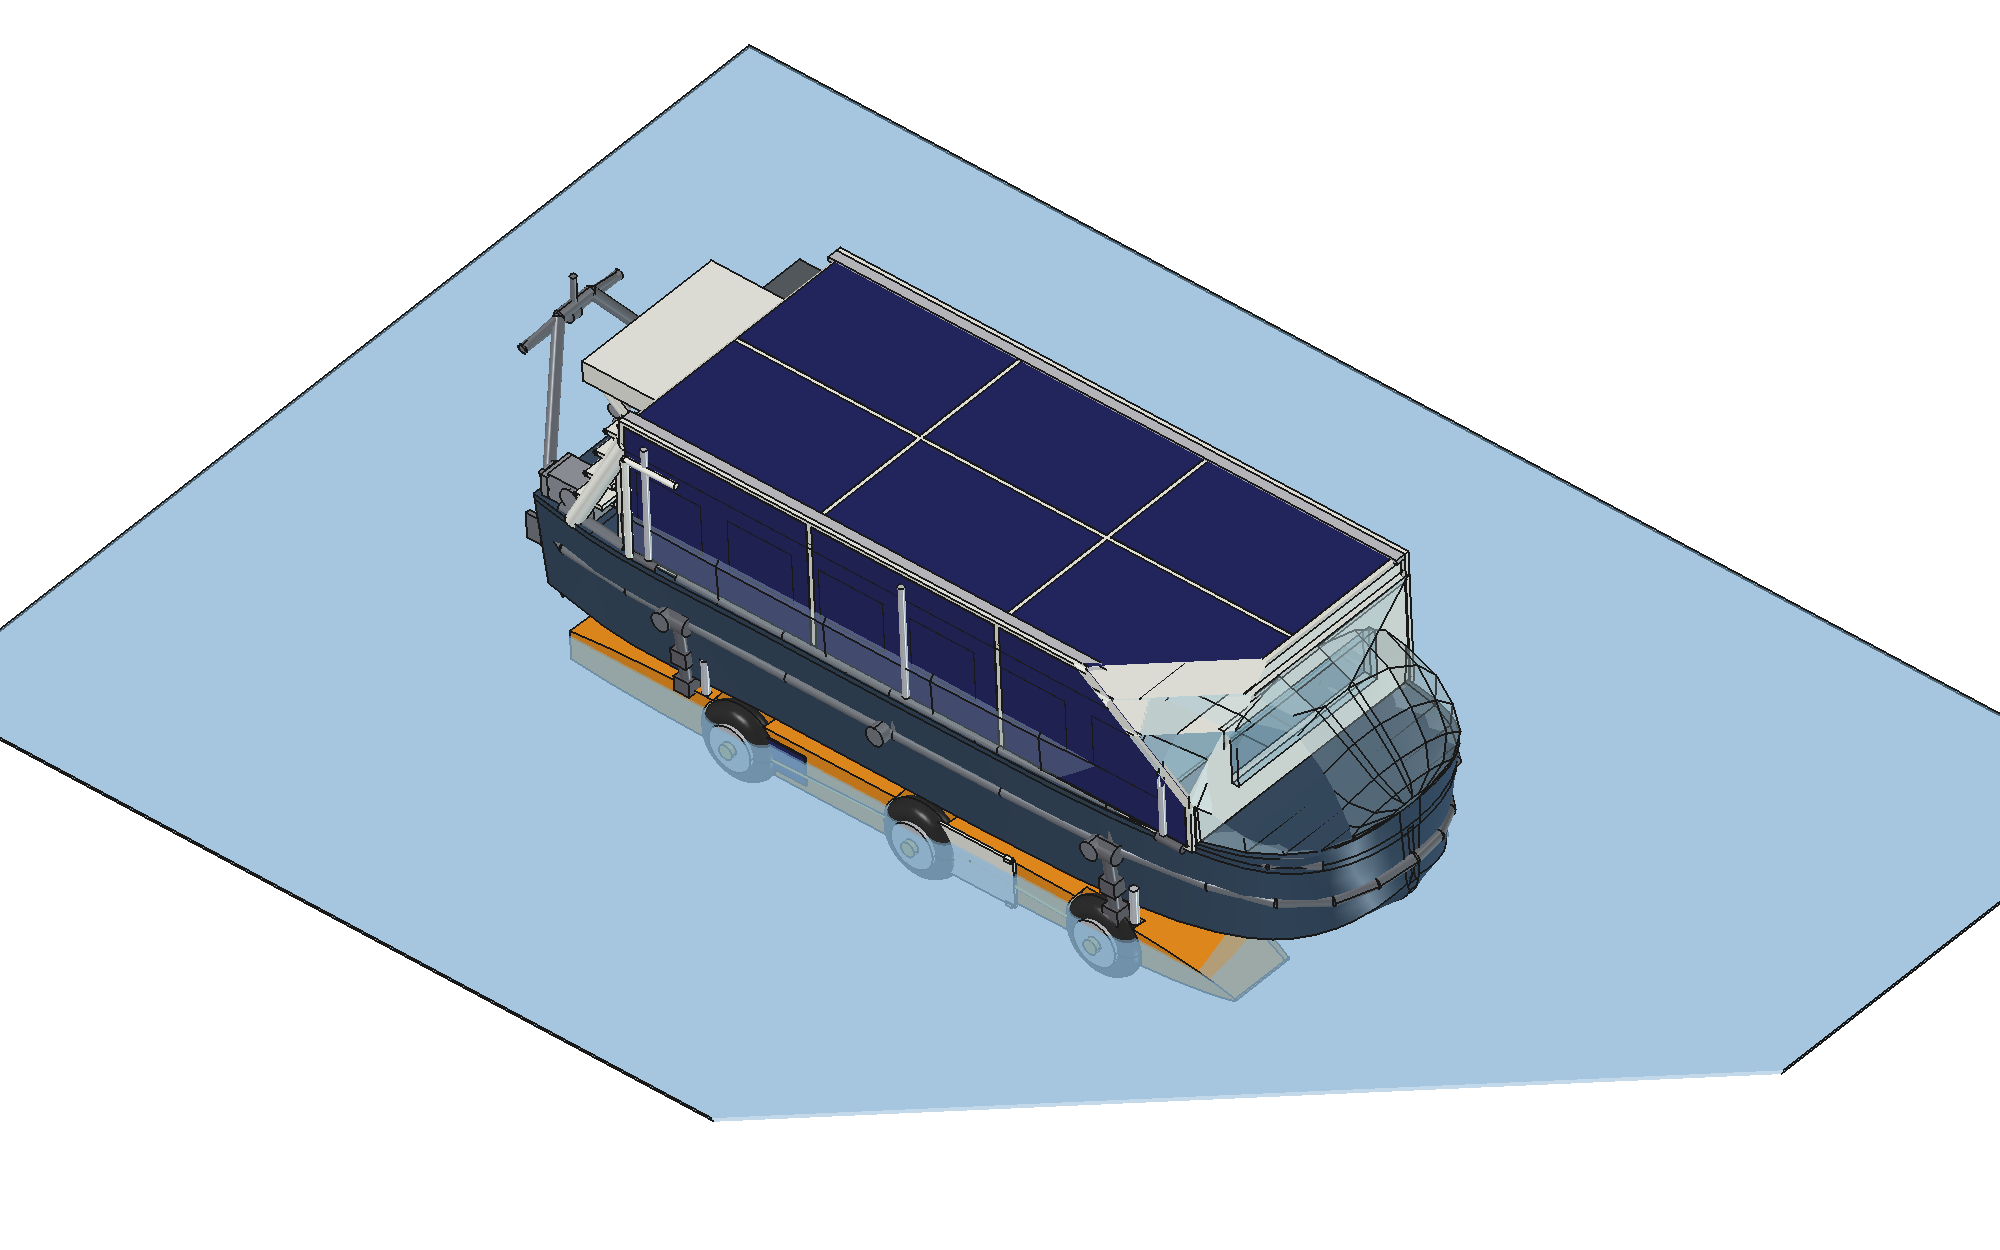
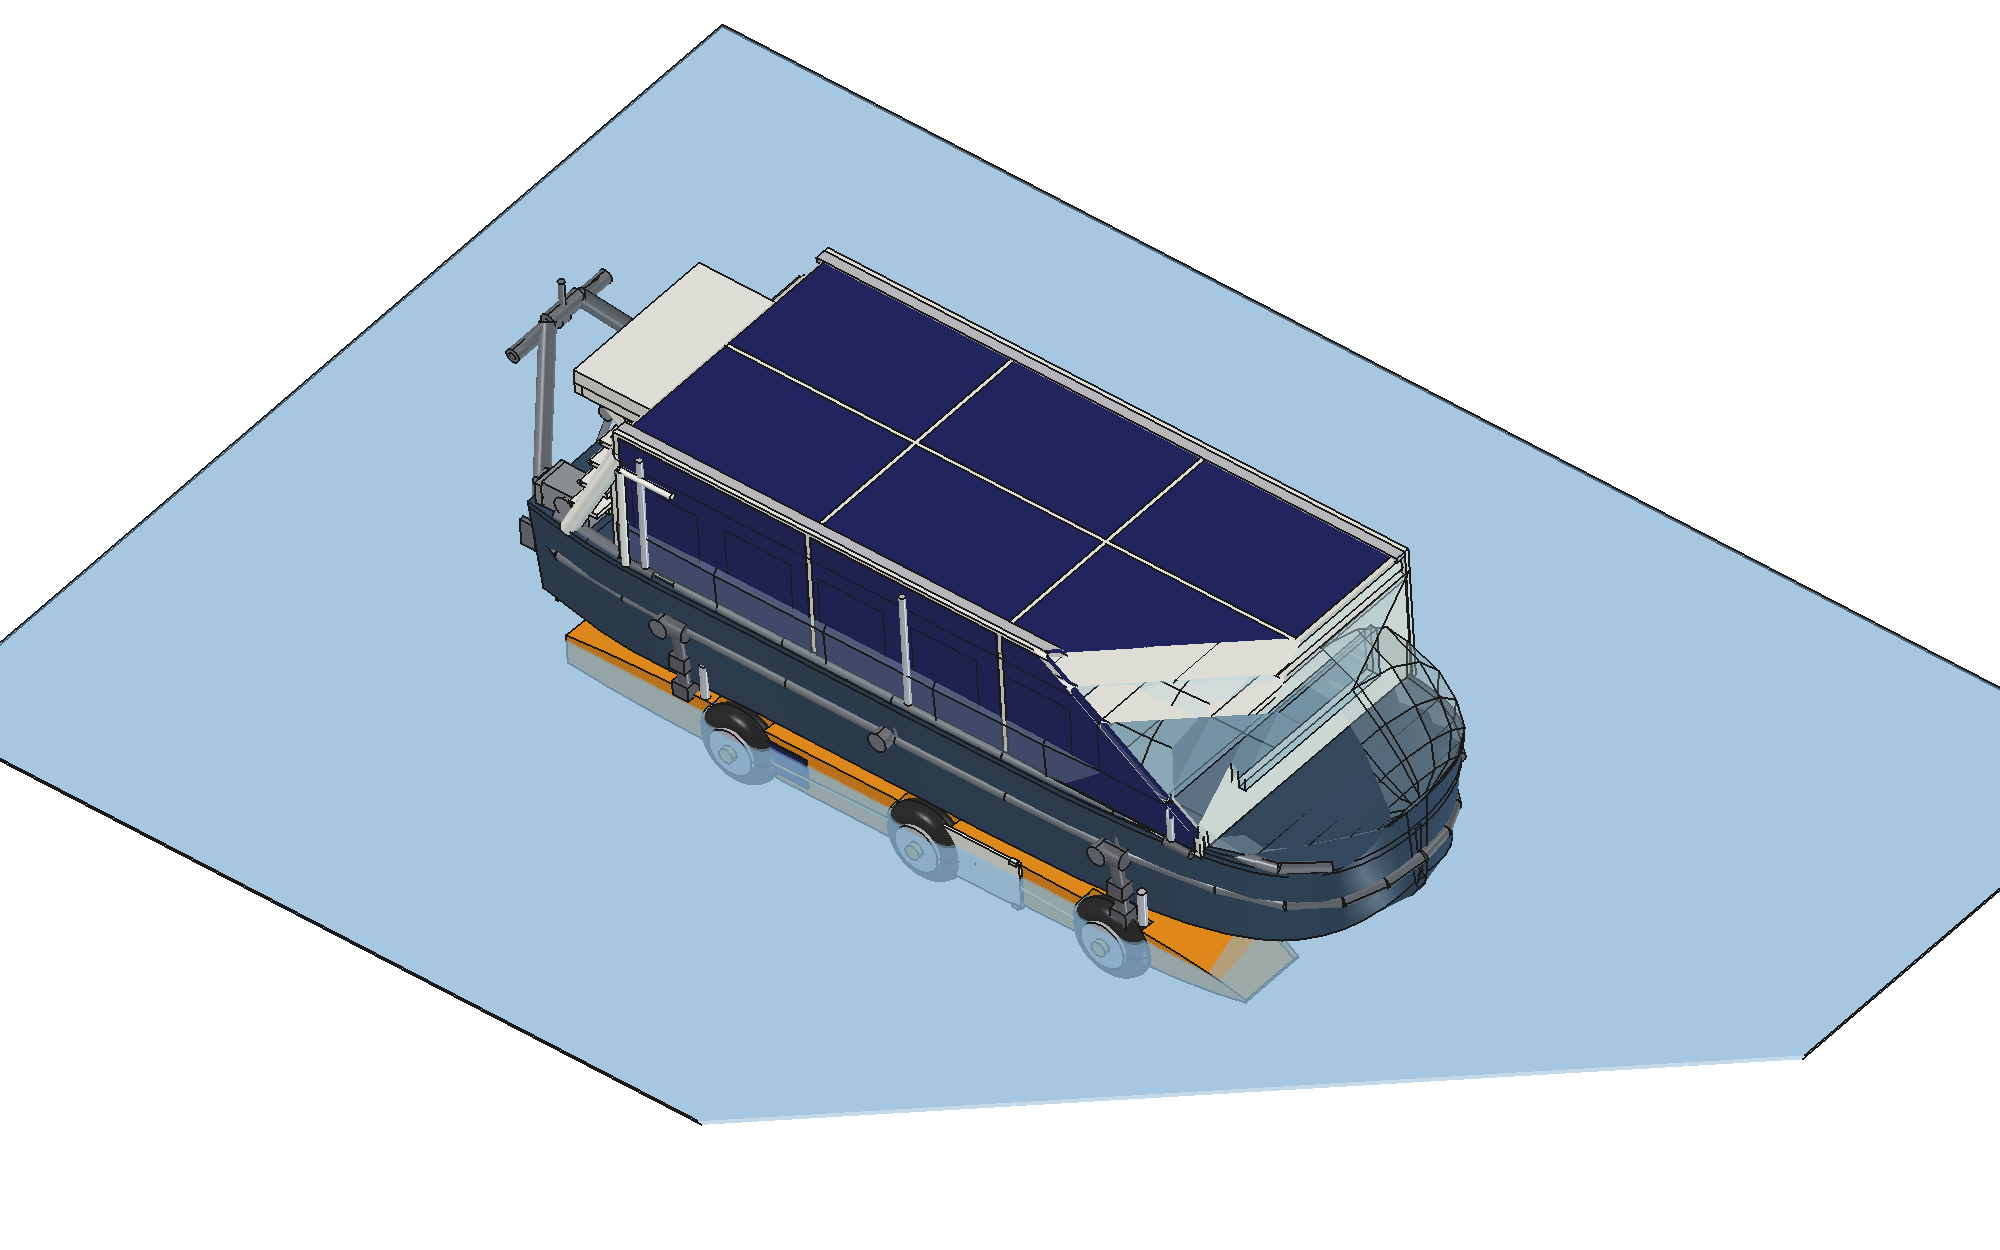
Fair the stern fittings; render the walkable access route
Aesthetic pass on the three things that read badly:
- Gantry legs go from 95 to 130 mm section with welded root gussets,
  so they read as structure rather than wire against a heavy hull.
- Porch becomes a thin 120 mm slab with a downturned fascia lip on the
  aft and side edges, so the two roof levels read as a deliberate
  two-tier roof instead of an accidental step.
- AC housing drops from 340 to 170 mm projection, filleted into the
  wall, with flush louvre blades — an integrated vent, not a bolted-on
  slab.

Added access_route / access_top / access_aft renders showing the path
from the door across the corner landing, up the half step, through the
boarding gate and out onto the balcony walkway, on both sides.

diff --git a/freecad/build_boat.py b/freecad/build_boat.py
@@ -522,6 +522,14 @@ def build_tow(pose):
                          (P.ARCH_PIVOT_X - 65, sgn * P.ARCH_PIVOT_Y - 140,
                           P.ARCH_PIVOT_Z - 115)))
     parts.append(rod((ax, -170, az), (ax, 170, az), P.ARCH_TUBE))
+    for sgn in (-1, 1):                       # root gussets
+        parts.append(Part.Face(wire([
+            (P.ARCH_PIVOT_X, sgn * P.ARCH_PIVOT_Y, P.ARCH_PIVOT_Z - 150),
+            (P.ARCH_PIVOT_X, sgn * P.ARCH_PIVOT_Y, P.ARCH_PIVOT_Z + 150),
+            (P.ARCH_PIVOT_X + (ax - P.ARCH_PIVOT_X) * 0.32,
+             sgn * (P.ARCH_PIVOT_Y + (170 - P.ARCH_PIVOT_Y) * 0.32),
+             P.ARCH_PIVOT_Z + (az - P.ARCH_PIVOT_Z) * 0.32)])).extrude(
+                 Vector(0, sgn * 22, 0)))
     if pose == "sea":
         # gantry fit-out: hanging beam, anchor sheave, nav-light post
         parts.append(rod((ax - 40, -520, az - 90), (ax - 40, 520, az - 90),
@@ -565,9 +573,16 @@ def build_aft_entry(rail_up=False, door_open=False):
                           P.COCKPIT_FLOOR)))
 
     # --- cantilevered porch: no posts, two diagonal tubes to the wall
+    pz = P.CABIN_ROOF_Z - P.PORCH_T
     parts.append(box(P.PORCH_X1 - P.PORCH_X0, 2 * P.PORCH_HW, P.PORCH_T,
-                     (P.PORCH_X0, -P.PORCH_HW,
-                      P.CABIN_ROOF_Z - P.PORCH_T)))
+                     (P.PORCH_X0, -P.PORCH_HW, pz)))
+    parts.append(box(70, 2 * P.PORCH_HW, 90, (P.PORCH_X0, -P.PORCH_HW,
+                                              pz - 90)))        # aft fascia
+    for sgn in (-1, 1):                                          # side fascia
+        parts.append(box(P.PORCH_X1 - P.PORCH_X0, 70,  90,
+                         (P.PORCH_X0, sgn * P.PORCH_HW - (70 if sgn > 0
+                                                          else 0),
+                          pz - 90)))
     for sgn in (-1, 1):
         parts.append(rod((P.PORCH_X0 + 90, sgn * P.PORCH_STRUT_Y,
                           P.CABIN_ROOF_Z - P.PORCH_T),
@@ -639,12 +654,17 @@ def build_aft_entry(rail_up=False, door_open=False):
             parts.append(rod((px, ry, pz), (px, ry, pz + 110), 60))
 
     # --- AC ventilator box (upper right) and lockers (rest of the wall)
-    dark.append(box(P.AC_DEPTH, P.AC_Y1 - P.AC_Y0, P.AC_Z1 - P.AC_Z0,
-                    (x1 - P.AC_DEPTH, P.AC_Y0, P.AC_Z0)))
-    for i in range(5):
-        parts.append(box(30, P.AC_Y1 - P.AC_Y0 - 80, 26,
-                         (x1 - P.AC_DEPTH - 15, P.AC_Y0 + 40,
-                          P.AC_Z0 + 50 + i * 58)))
+    ac = box(P.AC_DEPTH, P.AC_Y1 - P.AC_Y0, P.AC_Z1 - P.AC_Z0,
+             (x1 - P.AC_DEPTH, P.AC_Y0, P.AC_Z0))
+    try:
+        ac = ac.makeFillet(55, ac.Edges)          # faired into the wall
+    except Exception:
+        pass
+    parts.append(ac)
+    for i in range(6):                            # flush louvre blades
+        dark.append(box(16, P.AC_Y1 - P.AC_Y0 - 130, 30,
+                        (x1 - P.AC_DEPTH - 6, P.AC_Y0 + 65,
+                         P.AC_Z0 + 45 + i * 48)))
     parts.append(box(P.LOCKER_DEPTH, P.LOCKER_Y1 - P.LOCKER_Y0,
                      P.LOCKER_Z1 - P.LOCKER_Z0,
                      (x1 - P.LOCKER_DEPTH, P.LOCKER_Y0, P.LOCKER_Z0)))

diff --git a/freecad/params.py b/freecad/params.py
@@ -220,7 +220,7 @@ ARCH_LEG = 1200
 ARCH_SEA_DEG = 65
 ARCH_LAND_DEG = -23.5
 ARCH_EXT = 800                # telescoping tongue stroke
-ARCH_TUBE = 95
+ARCH_TUBE = 130               # heavier section: reads as structure, not wire
 COUPLING_H = 430              # target coupling height above ground
 
 # ---- aft entry: sunken cockpit, storm door, porch, stairs ----
@@ -250,7 +250,7 @@ DOOR_SLIDE = 760              # leaf slides to PORT into a pocket under
 DOOR_Z0, DOOR_Z1 = 550, 2100  # 150 sill; 1700 mm clear above the floor
 PORCH_X0, PORCH_X1 = 120, 820 # cantilevered, flashing seals it to the wall
 PORCH_HW = 700                # narrow: covers the well, clears the ladder
-PORCH_T = 180
+PORCH_T = 120                 # thin slab + fascia lip: a deliberate lower roof
 PORCH_STRUT_Y = 620           # diagonal tubes to the wall — no deck posts
 # alternating-tread ladder, hard against the aft wall to save floor space
 STAIR_Y0, STAIR_Y1 = -1200, -740   # port strip, to the LEFT of the door
@@ -267,7 +267,7 @@ GRAB_POST_H = 900
 # aft wall fit-out, seen from the cockpit: AC upper right, lockers below
 AC_Y0, AC_Y1 = 600, 1140
 AC_Z0, AC_Z1 = 1760, 2100
-AC_DEPTH = 340
+AC_DEPTH = 170                # shallow and faired, not a bolted-on slab
 LOCKER_Y0, LOCKER_Y1 = 430, 1140
 LOCKER_Z0, LOCKER_Z1 = 950, 1720
 LOCKER_DEPTH = 300

diff --git a/freecad/capture.py b/freecad/capture.py
@@ -33,3 +33,5 @@ for mode in ("road", "launch", "harbor", "cruise", "anchor"):
         view.saveImage(f"{OUT}/{mode}_{name}.png", 2000, 1250, "White")
 print("shots done")
 os._exit(0)
+# NOTE: this script wipes shots/*.png first. Detail renders (access_*,
+# etc.) must be regenerated after it runs, not before.
